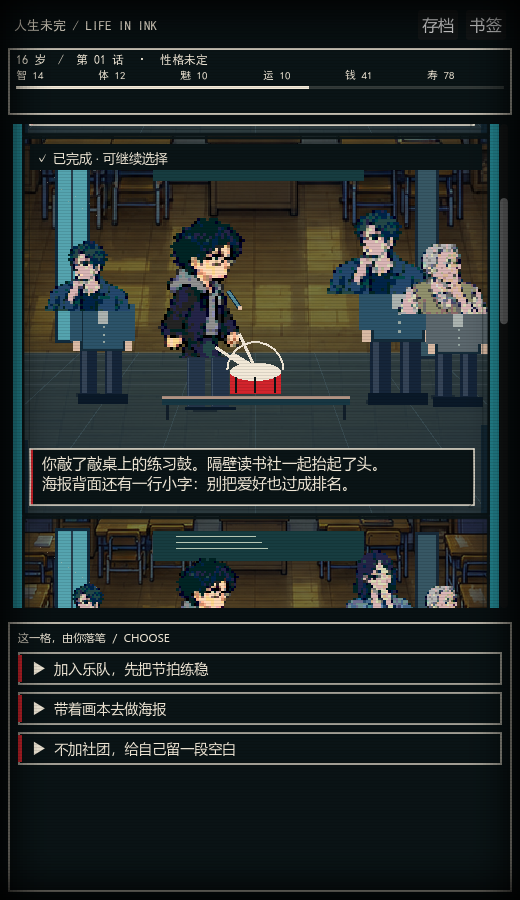
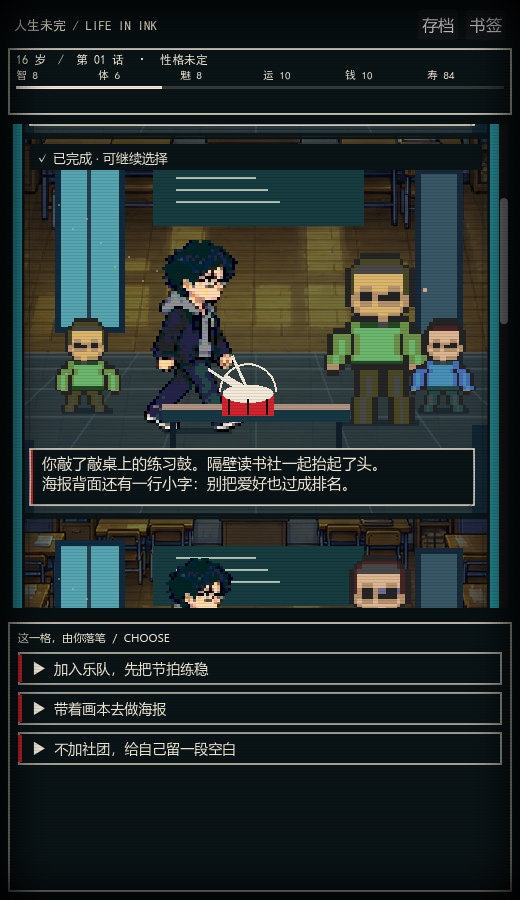
fix(animation): repair world actor composition and responsive scene layout

diff --git a/docs/comic-world-scenes.md b/docs/comic-world-scenes.md
@@ -15,7 +15,18 @@
 
 `scripts/comic_world.gd` 负责场景计划、角色像素采样、多人站位、物件演出和环境结果。`comic_panel.gd` 复用原有逐句导演和计时器，在主游戏、选项结果和历史页共用这个渲染器。指定 `presentation: "portrait"` 仍可选择旧演出。
 
-像素化是运行时渲染采样：保留现有素材文件，将全身角色按 64 像素高度、NPC 上身按 28 像素高度采样、缩减调色板，再以最近邻放大；NPC 身体和手臂、道具、场景前景以代码绘制。Atlas 的像素缓存按资源实例区分，避免同一原图上的不同年龄、角色与走路帧被错误复用。本次没有引入第三方游戏角色或素材。
+像素化是运行时渲染采样：保留现有素材文件，将全身角色按 64 像素高度采样、缩减调色板，再以最近邻放大。NPC 使用现有的完整全身动作帧；不再给半身立绘拼矩形身体，也不裁断主角腿部或重复叠加手臂。道具和场景前景由代码绘制。Atlas 的像素缓存按资源实例区分，避免同一原图上的不同年龄、角色与走路帧被错误复用。本次没有引入第三方游戏角色或素材。
+
+## 画面修复记录
+
+- 人物使用完整身体帧，修复头身拼接、腿部裁断与额外手臂；镜像绘制后恢复场景绘制变换，NPC 朝向正常。
+- 预留旁白、气泡、完成互动后的新增文字与提示条空间，人物脚底和交互道具均限制在剩余舞台内；黑底场景的旁白也放在下沿。
+- 场景像素倍率固定为 2，人物按可用舞台连续缩放，消除 479→480 像素窗口跨阈值时的比例突变。
+- `interaction_object_rect()` / `interaction_target_rect()` 同时供绘制、输入、原生鼠标测试使用，修复看得到点不到及落点错位；手机按钮也按道具大小缩放。
+- 互动计时与预览计时都收束到 2.4 秒，避免动画停在不同姿势；时间滑杆跟随播放，预览适应窄窗口。
+- 只绘制一层天气；关机直接关闭实际显示器，移除额外的漂浮黑块；互动新增文字不再吞掉原有对话气泡。
+
+新增 `test/comic_world_layout_smoke.gd` 验证 320、360、479、480、520 五种宽度的安全区域、道具/落点、连续比例和时间滑杆。截图已更新到修复版本。
 
 还修正了 Godot 在 `add_child()` 时自动开启 `_process` 导致历史分镜重新计时的问题：进入场景树后按已准备的揭示/互动状态恢复处理开关。
 
@@ -24,7 +35,7 @@
 - F5：主游戏。
 - 打开 `scenes/WorldLab.tscn` 后 F6：六组连续三格场景，可选择加班、演出、借书、回家、体检、告别；支持播放、暂停和时间滑杆。
 - `test/comic_world_smoke.gd`：角色 Atlas 缓存身份、年龄差异、走路帧差异、六组场景、历史与减少动态。
-- 本次共通过 14 组回归，覆盖逐句演出、真实鼠标互动、选项只结算一次、存档恢复、360 像素阅读器、短篇与旧版长线整局流程。
+- 场景扩展和修复共通过 15 组回归，覆盖布局、逐句演出、真实鼠标互动、选项只结算一次、存档恢复、360 像素阅读器、短篇与旧版长线整局流程。
 - `tools/capture_world.gd` 生成六组原生 Godot 画面和告别收势；`tools/capture_acting_game.gd -- --world` 生成主游戏点击手机/鼓与窄屏截图，保存于 `docs/world-scenes/`。捕获过程关闭存档写入。
 
 这是可运行的场景演出扩展。六组手动预览用于展示连续叙事；其余人生事件由场景计划和现有逐句导演组合演出，尚未逐条制作独有的手绘动画。
